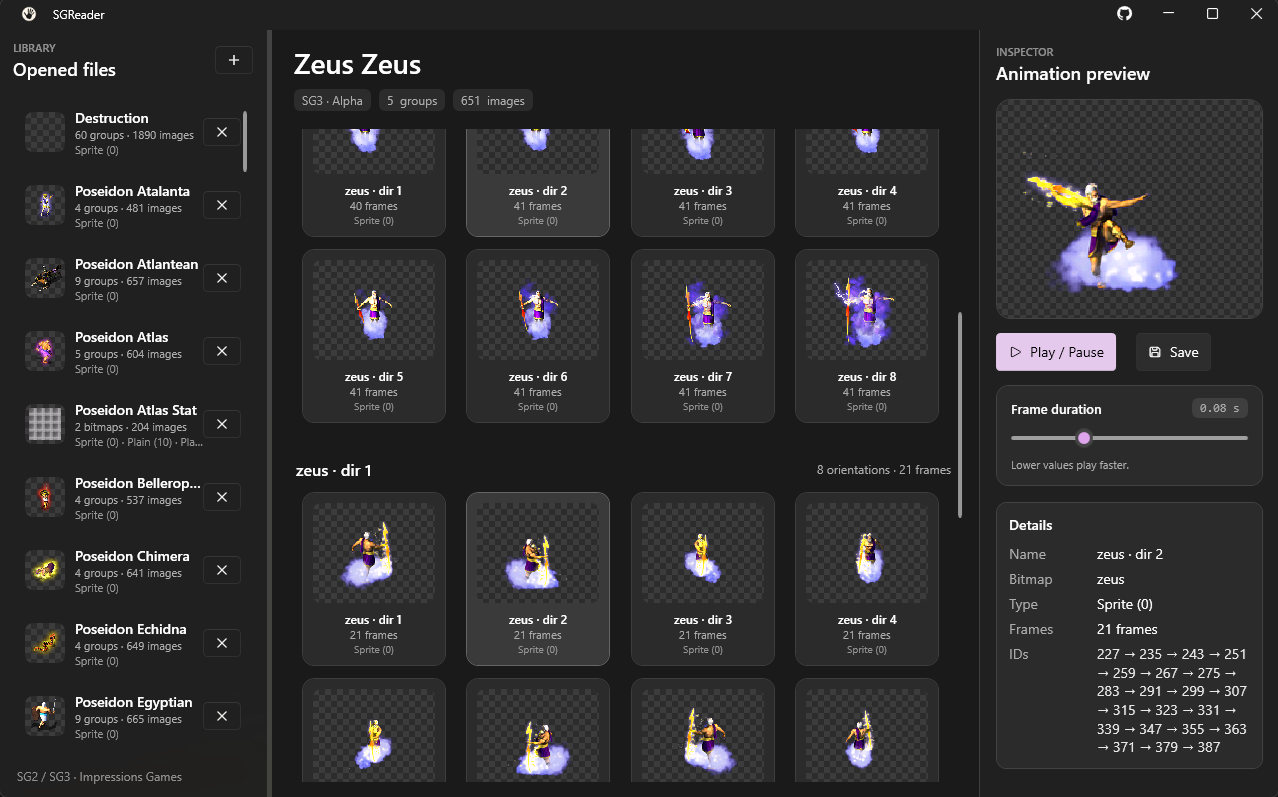
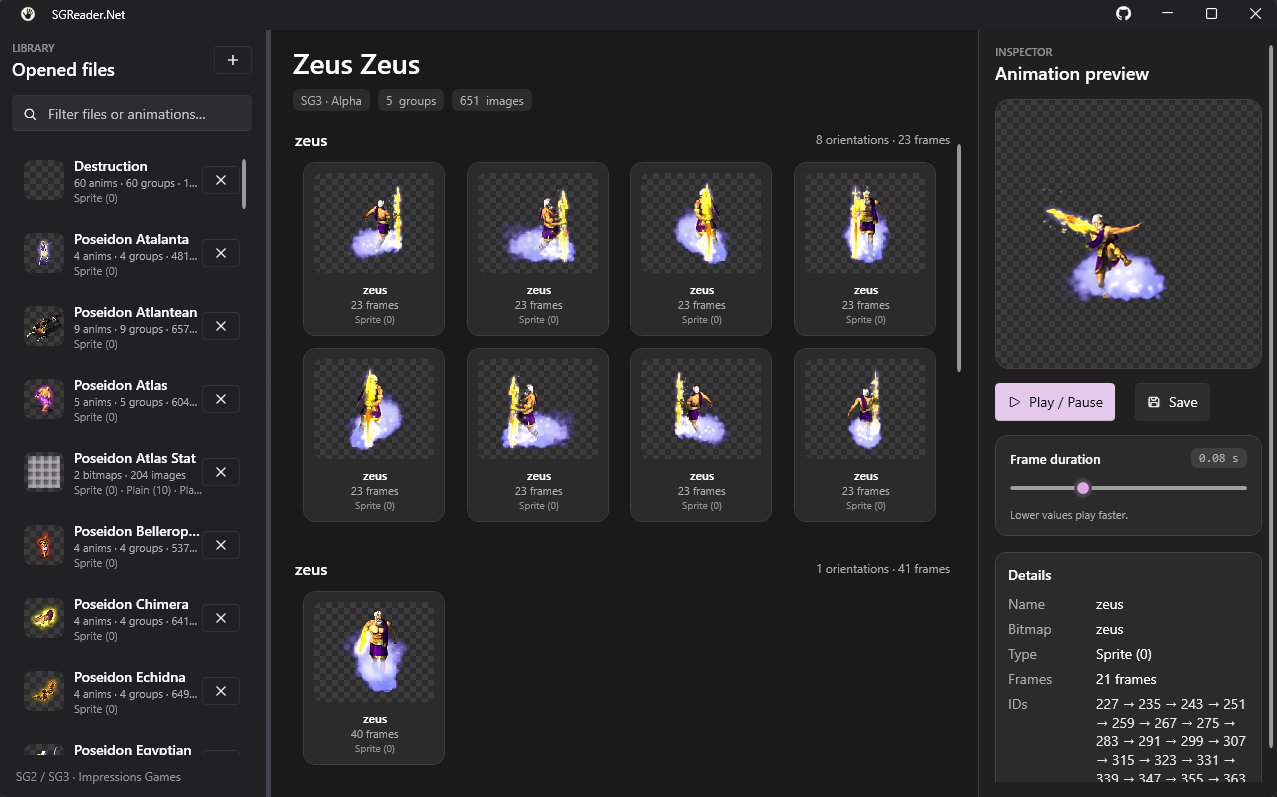
Minor changes before release

diff --git a/src/SGReader/SGFileView.xaml b/src/SGReader/SGFileView.xaml
@@ -103,6 +103,7 @@
                                                                Text="{Binding Title}"
                                                                FontWeight="SemiBold"
                                                                FontSize="12"
+                                                               Foreground="{StaticResource AppTitleTextBrush}"
                                                                TextTrimming="CharacterEllipsis"
                                                                HorizontalAlignment="Center" />
                                                     <TextBlock Text="{Binding Description}"

diff --git a/src/SGReader/MainWindow.xaml b/src/SGReader/MainWindow.xaml
@@ -7,7 +7,7 @@
                  xmlns:ui="http://schemas.lepo.co/wpfui/2022/xaml"
                  mc:Ignorable="d"
                  x:Name="Root"
-                 Title="SGReader"
+                 Title="SGReader.Net"
                  Width="1280"
                  Height="800"
                  MinWidth="960"
@@ -23,7 +23,7 @@
         </Grid.RowDefinitions>
 
         <ui:TitleBar Grid.Row="0"
-                     Title="SGReader"
+                     Title="SGReader.Net"
                      Height="32"
                      Background="{StaticResource AppSidebarBrush}">
             <ui:TitleBar.Icon>

diff --git a/src/SGReader/App.xaml b/src/SGReader/App.xaml
@@ -21,6 +21,7 @@
             <SolidColorBrush x:Key="AppCardBrush" Color="#FF2B2B2B" />
             <SolidColorBrush x:Key="AppCardHoverBrush" Color="#FF343434" />
             <SolidColorBrush x:Key="AppCardSelectedBrush" Color="#FF3A3A3A" />
+            <SolidColorBrush x:Key="AppTitleTextBrush" Color="#FFFFFF" />
             <SolidColorBrush x:Key="AppSubtleTextBrush" Color="#FFADADAD" />
             <SolidColorBrush x:Key="AppDividerBrush" Color="#28FFFFFF" />
             <SolidColorBrush x:Key="CheckerLightBrush" Color="#FF3C3C3C" />

diff --git a/README.md b/README.md
@@ -29,7 +29,7 @@ dotnet build src/SGReader.sln -c Release
 2. Choisir le profil **FolderProfile** (ou Dossier / Folder)
 3. **Publier**
 
-Sortie : `publish/SGReader-1.0.0.exe`
+Sortie : `publish/SGReader.Net-1.0.0.exe`
 
 **CLI**
 
@@ -39,7 +39,7 @@ dotnet publish src/SGReader/SGReader.csproj -c Release -o publish -p:PublishSing
 
 Framework-dependent win-x64 (~7 MB). Requires [.NET 10 Desktop Runtime](https://dotnet.microsoft.com/download/dotnet/10.0).
 
-Bump `<Version>` in `src/SGReader/SGReader.csproj` to change the exe name (`SGReader-<version>.exe`).
+Bump `<Version>` in `src/SGReader/SGReader.csproj` to change the exe name (`SGReader.Net-<version>.exe`).
 
 ## UI
 
